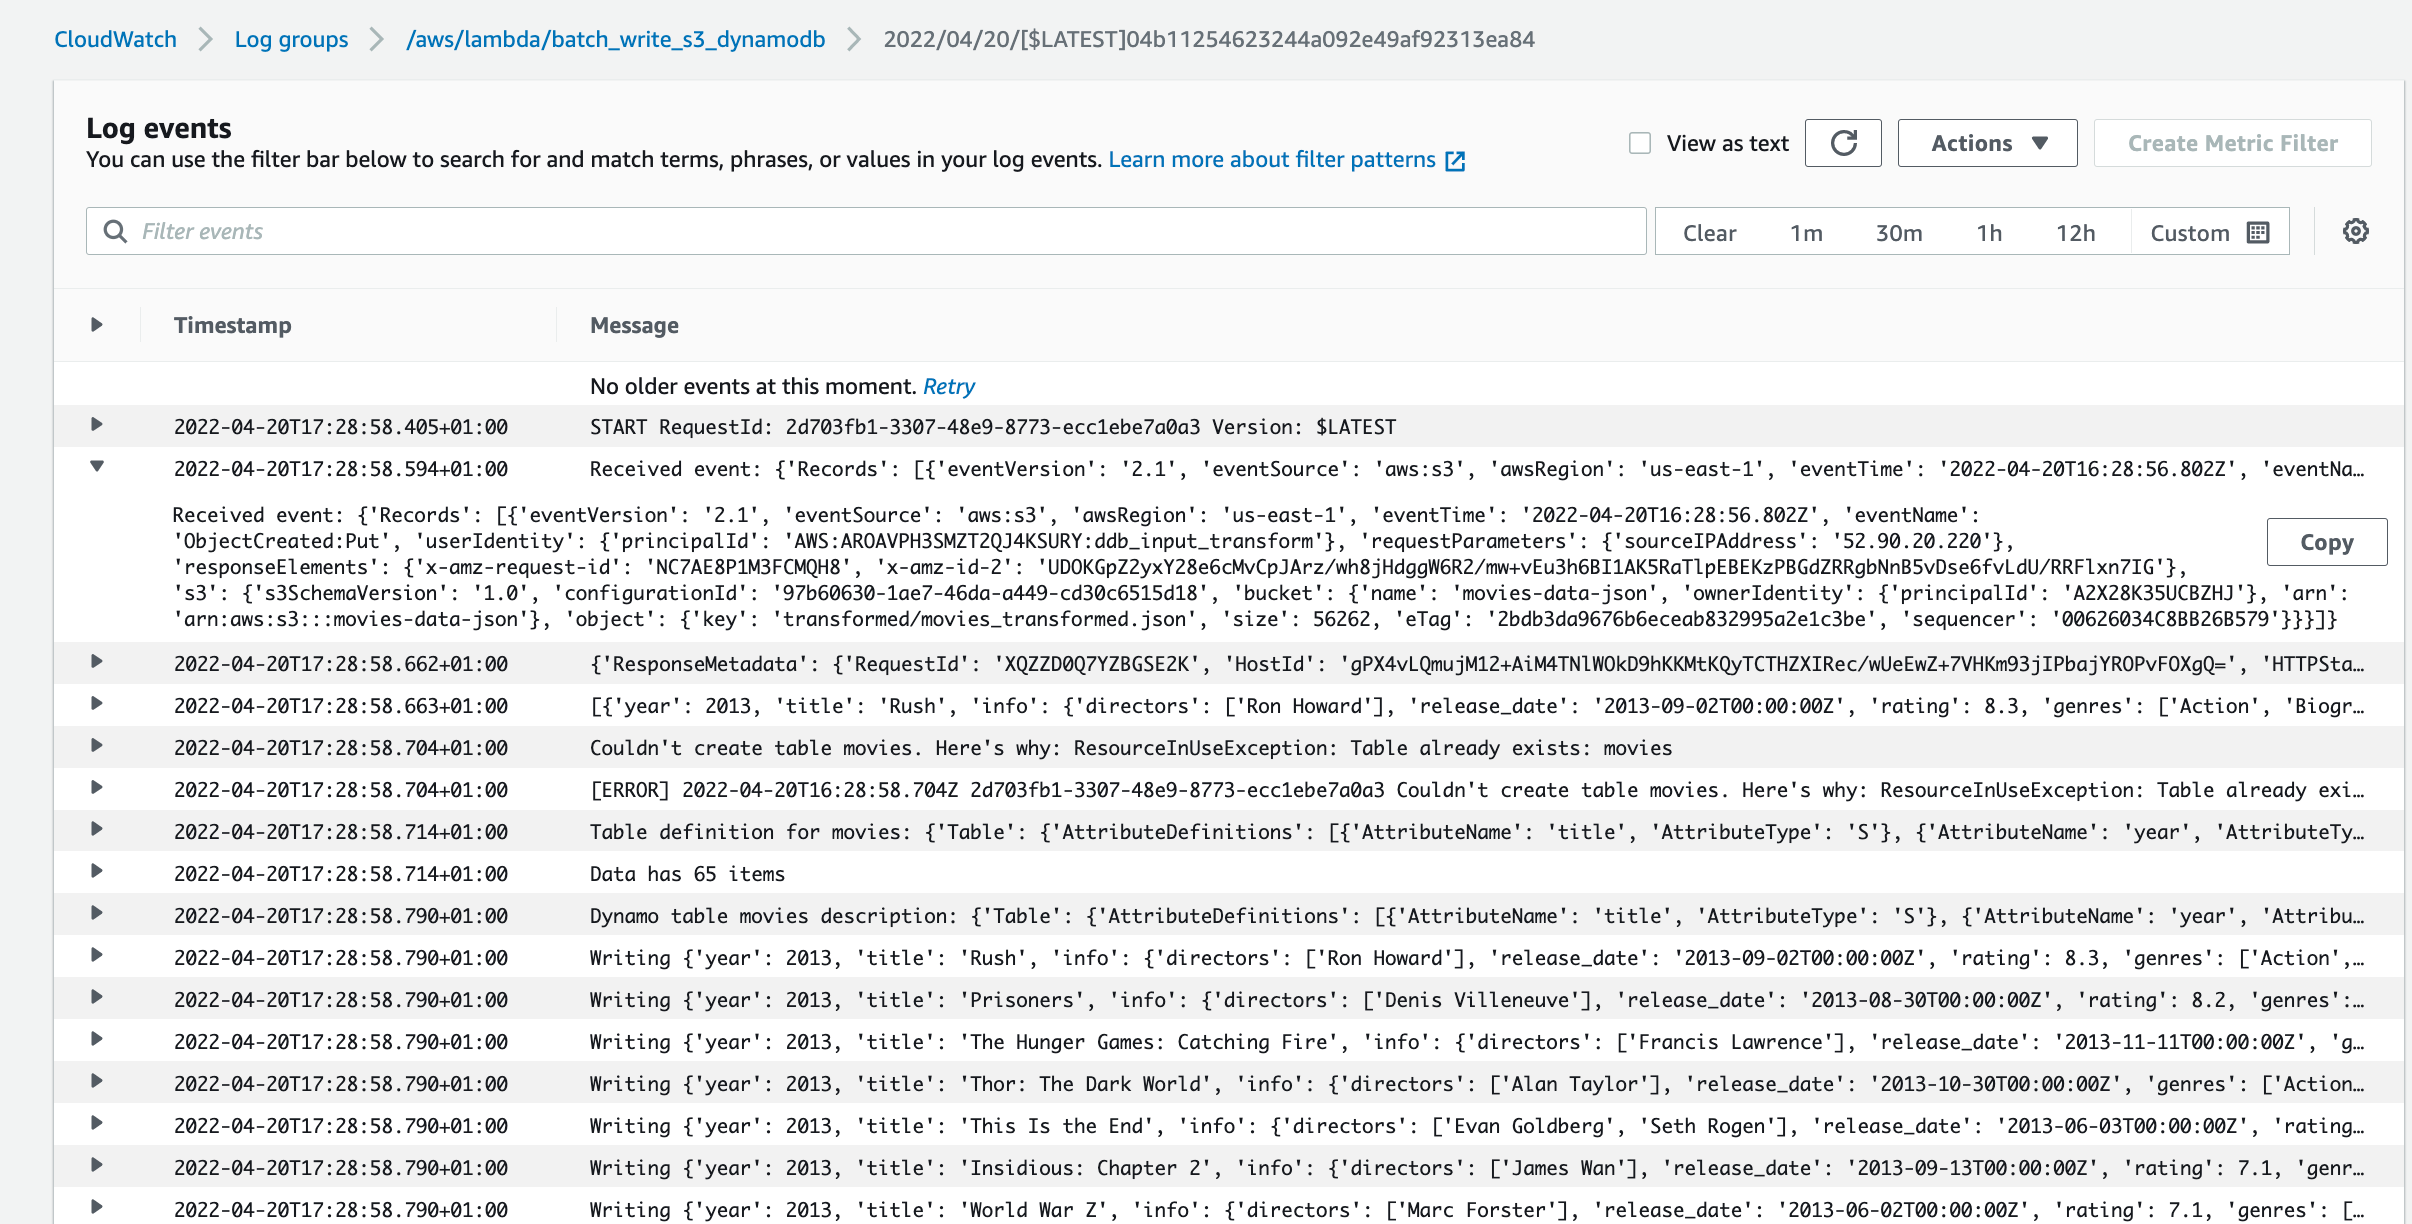
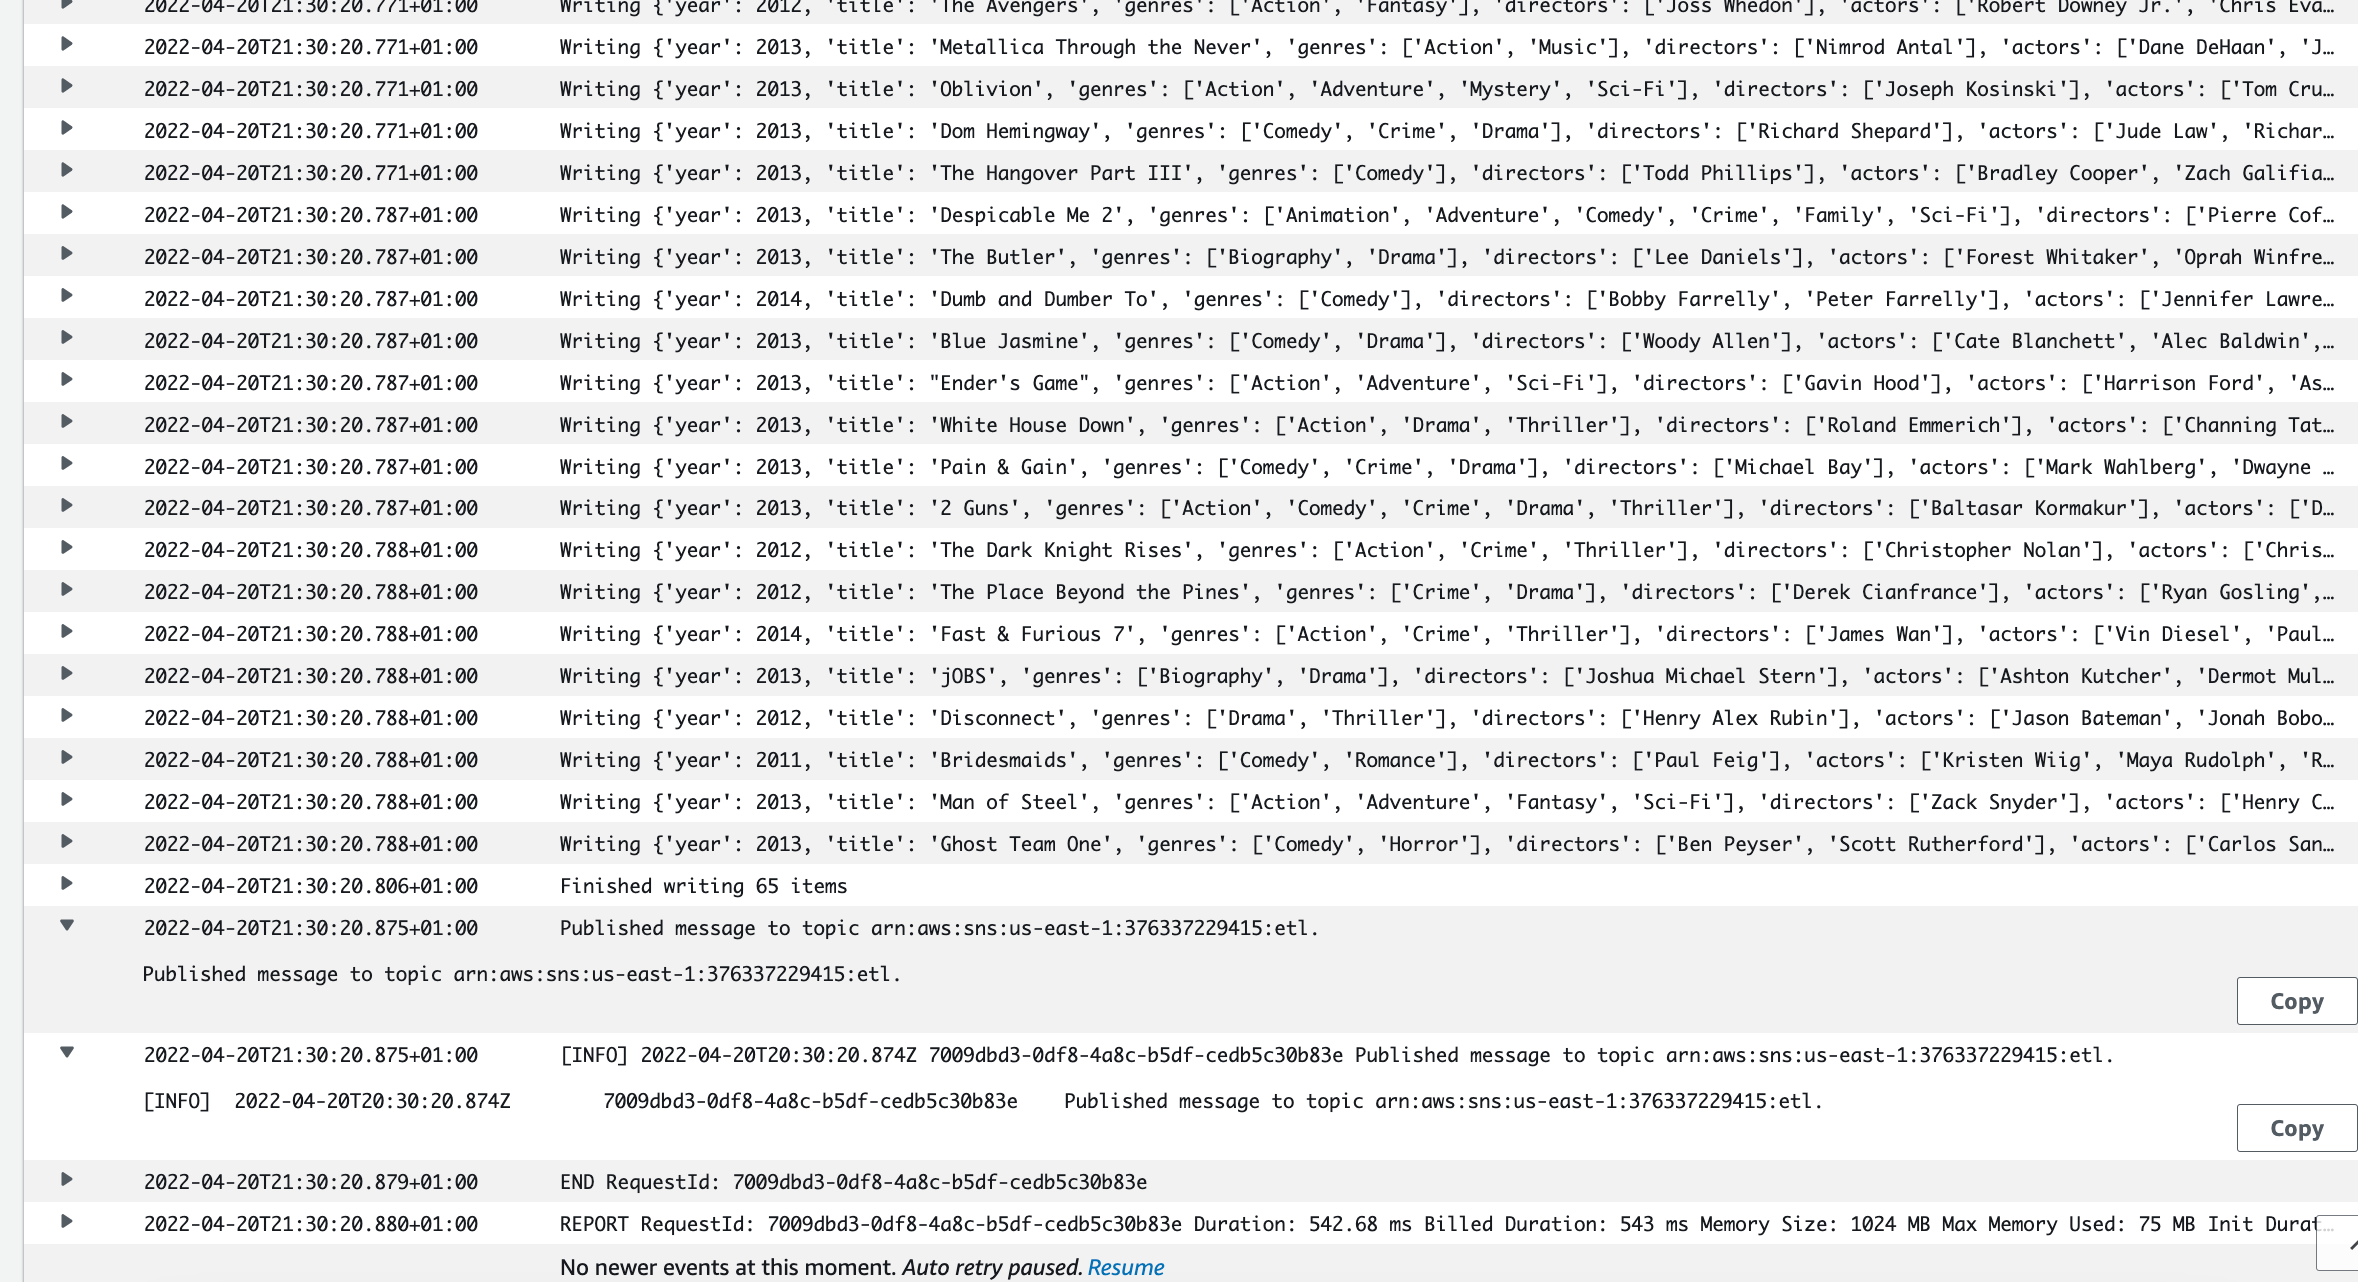
add new screenshot images and adapt readme

Changed region(s): [[0.031, 0.0, 1.0, 1.0], [0.8359, 0.0, 0.8978, 0.031], [0.9597, 0.0, 0.9907, 0.031]]

diff --git a/data-pipelines/s3_dynamodb/README.md b/data-pipelines/s3_dynamodb/README.md
@@ -1,7 +1,7 @@
 # Copy data from S3 to dynamodb
 
 
-<img width="1000" alt="flights_glue_job" src="https://github.com/ryankarlos/aws_etl/blob/master/screenshots/s3_to_dynamodb.png">
+<img width="1000" alt="flights_glue_job" src="https://github.com/ryankarlos/aws_etl/blob/master/screenshots/s3_to_dynamodb_workflow.png">
 
 
 Zip the lambda function script and required modules into package by running the following commands
@@ -156,8 +156,14 @@ updating: schema.py (deflated 68%)
 ## Cloudwatch Execution logs 
 In the cloudwatch console you can see the lamda function execution logs
 
-* first Lambda function performation data transformations and triggered by raw data load into S3
-<img width="1000" alt="flights_glue_job" src="https://github.com/ryankarlos/aws_etl/blob/master/screenshots/cloudwatch_lambda_ddb1.png">
+* /aws/lambda/ddb_input_transform log group
 
-* Second lambda function triggered by S3 put event and batch writing data to DynamoDB
+first Lambda function performs data transformations and triggered by raw data load into S3
+
+<img width="1000" alt="flights_glue_job" src="https://github.com/ryankarlos/aws_etl/blob/master/screenshots/ddb_lambda_function1_logs.png">
+
+* /aws/lambda/batch_write_s3_dynamodb log group
+
+Second lambda function triggered by S3 put event and batch writing data to DynamoDB and publish to SNS
+
 <img width="1000" alt="flights_glue_job" src="https://github.com/ryankarlos/aws_etl/blob/master/screenshots/ddb_lambda_function2_logs.png">
